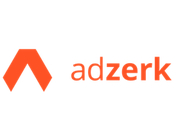
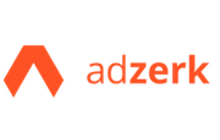
add sponsor

diff --git a/_layouts/home.html b/_layouts/home.html
@@ -245,9 +245,14 @@
 			</section>
 
 			<div class="row half">
-				<div class="12u">
+				<div class="6u">
 					<section>
 						<a href="http://adzerk.com/" class="logo"><img src="images/sponsors/adzerk.jpg" alt="Adzerk" width="220" title="Adzerk" /></a>
+					</section>
+				</div>
+				<div class="6u">
+					<section>
+						<a href="https://www.concur.com/" class="logo"><img src="images/sponsors/concur.jpg" alt="Concur" width="220" title="Concur" /></a>
 					</section>
 				</div>
 			</div>
